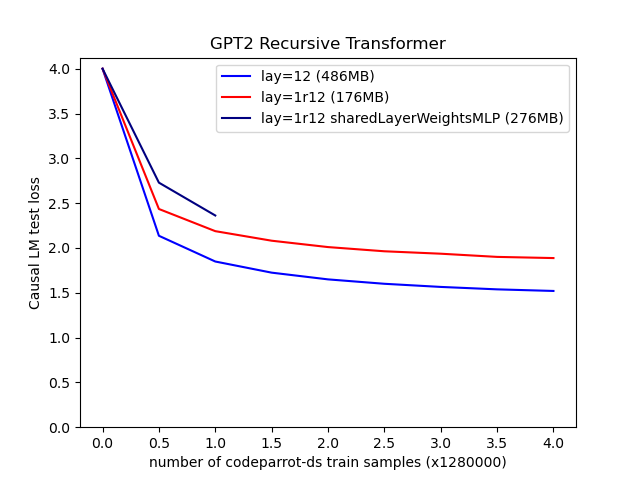
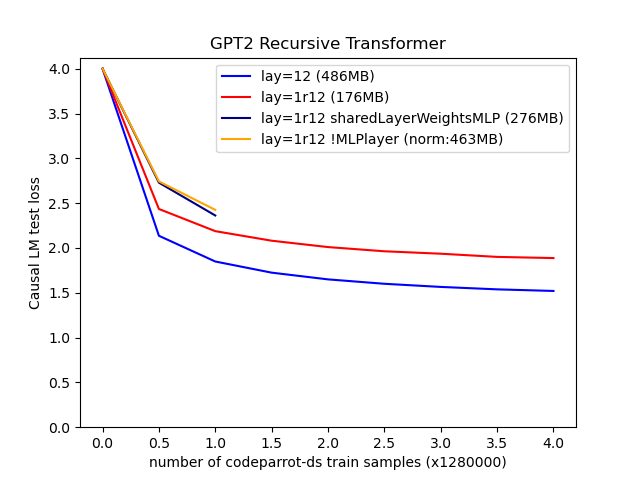
SBNLP/ROBERTAptRecursive/GPT2ptRecursive: add normalisation parameters option for !transformerBlockMLPlayer+recursiveLayersNormaliseNumParameters

diff --git a/graph/recursiveLayers/trainingResults/positionEmbeddingTypeAbsolute/GPT2CausalRecursiveTransformer-transformerBlockMLPlayer.py b/graph/recursiveLayers/trainingResults/positionEmbeddingTypeAbsolute/GPT2CausalRecursiveTransformer-transformerBlockMLPlayer.py
@@ -7,12 +7,14 @@ y3 = np.array([0.0, 0.5370364785194397, 0.5751139521598816, 0.5930986404418945, 
 y6 = np.array([0.0, np.nan, np.nan, np.nan, np.nan, np.nan, np.nan, np.nan, np.nan])
 y7 = np.array([0.0, np.nan, np.nan, np.nan, np.nan, np.nan, np.nan, np.nan, np.nan])
 y8 = np.array([0.0, 0.5002896189689636, 0.5535823702812195, np.nan, np.nan, np.nan, np.nan, np.nan, np.nan])
+y13 = np.array([0.0, 0.49833741784095764, 0.5456426739692688, np.nan, np.nan, np.nan, np.nan, np.nan, np.nan])
 
 l2, = plt.plot(x, y2, color='blue', label='lay=12 (486MB)')
 l3, = plt.plot(x, y3, color='red', label='lay=1r12 (176MB)')
 l6, = plt.plot(x, y6, color='orange', label='lay=1r12 !MLPlayer (156MB)')
 l7, = plt.plot(x, y7, color='yellow', label='lay=1r12 MLPlayerLast (176MB)')
 l8, = plt.plot(x, y8, color='navy', label='lay=1r12 sharedLayerWeightsMLP (276MB)')
+l13, = plt.plot(x, y13, color='orange', label='lay=1r12 !MLPlayer (norm:463MB)')
 
 plt.xticks(np.arange(min(x), max(x)+0.5, 0.5))
 plt.yticks(np.arange(0, 0.7+0.1, 0.1))
@@ -21,6 +23,6 @@ plt.xlabel("number of codeparrot-ds train samples (x1280000)")
 plt.ylabel("Causal LM test accuracy (Top-1)")
 plt.title("GPT2 Recursive Transformer")
 
-plt.legend(handles=[l2, l3, l8])
+plt.legend(handles=[l2, l3, l8, l13])
 
 plt.show()

diff --git a/graph/recursiveLayers/trainingResults/positionEmbeddingTypeAbsolute/GPT2CausalRecursiveTransformer-transformerBlockMLPlayer-perplexity.py b/graph/recursiveLayers/trainingResults/positionEmbeddingTypeAbsolute/GPT2CausalRecursiveTransformer-transformerBlockMLPlayer-perplexity.py
@@ -7,12 +7,14 @@ y3 = np.array([25.0, 11.413861274719238, 8.91283893585205, 8.011733055114746, 7.
 y6 = np.array([25.0, np.nan, np.nan, np.nan, np.nan, np.nan, np.nan, np.nan, np.nan])
 y7 = np.array([25.0, np.nan, np.nan, np.nan, np.nan, np.nan, np.nan, np.nan, np.nan])
 y8 = np.array([25.0, 15.31370735168457, 10.615104675292969, np.nan, np.nan, np.nan, np.nan, np.nan, np.nan])
+y13 = np.array([25.0, 15.526958465576172, 11.304801940917969, np.nan, np.nan, np.nan, np.nan, np.nan, np.nan])
 
 l2, = plt.plot(x, y2, color='blue', label='lay=12 (486MB)')
 l3, = plt.plot(x, y3, color='red', label='lay=1r12 (176MB)')
 l6, = plt.plot(x, y6, color='orange', label='lay=1r12 !MLPlayer (156MB)')
 l7, = plt.plot(x, y7, color='yellow', label='lay=1r12 MLPlayerLast (176MB)')
 l8, = plt.plot(x, y8, color='navy', label='lay=1r12 sharedLayerWeightsMLP (276MB)')
+l13, = plt.plot(x, y13, color='orange', label='lay=1r12 !MLPlayer (norm:463MB)')
 
 plt.xticks(np.arange(min(x), max(x)+0.5, 0.5))
 plt.yticks(np.arange(0, 25.0+2.0, 2.0))
@@ -21,6 +23,6 @@ plt.xlabel("number of codeparrot-ds train samples (x1280000)")
 plt.ylabel("Causal LM test perplexity")
 plt.title("GPT2 Recursive Transformer")
 
-plt.legend(handles=[l2, l3, l8])
+plt.legend(handles=[l2, l3, l8, l13])
 
 plt.show()

diff --git a/graph/recursiveLayers/trainingResults/positionEmbeddingTypeAbsolute/GPT2CausalRecursiveTransformer-transformerBlockMLPlayer-loss.py b/graph/recursiveLayers/trainingResults/positionEmbeddingTypeAbsolute/GPT2CausalRecursiveTransformer-transformerBlockMLPlayer-loss.py
@@ -7,12 +7,14 @@ y3 = np.array([4.0, 2.434828519821167, 2.187492847442627, 2.080907106399536, 2.0
 y6 = np.array([4.0, np.nan, np.nan, np.nan, np.nan, np.nan, np.nan, np.nan, np.nan])
 y7 = np.array([4.0, np.nan, np.nan, np.nan, np.nan, np.nan, np.nan, np.nan, np.nan])
 y8 = np.array([4.0, 2.728748321533203, 2.3622779846191406, np.nan, np.nan, np.nan, np.nan, np.nan, np.nan])
+y13 = np.array([4.0, 2.7425777912139893, 2.425227642059326, np.nan, np.nan, np.nan, np.nan, np.nan, np.nan])
 
 l2, = plt.plot(x, y2, color='blue', label='lay=12 (486MB)')
 l3, = plt.plot(x, y3, color='red', label='lay=1r12 (176MB)')
 l6, = plt.plot(x, y6, color='orange', label='lay=1r12 !MLPlayer (156MB)')
 l7, = plt.plot(x, y7, color='yellow', label='lay=1r12 MLPlayerLast (176MB)')
 l8, = plt.plot(x, y8, color='navy', label='lay=1r12 sharedLayerWeightsMLP (276MB)')
+l13, = plt.plot(x, y13, color='orange', label='lay=1r12 !MLPlayer (norm:463MB)')
 
 plt.xticks(np.arange(min(x), max(x)+0.5, 0.5))
 plt.yticks(np.arange(0, 4.0+0.1, 0.5))
@@ -21,6 +23,6 @@ plt.xlabel("number of codeparrot-ds train samples (x1280000)")
 plt.ylabel("Causal LM test loss")
 plt.title("GPT2 Recursive Transformer")
 
-plt.legend(handles=[l2, l3, l8])
+plt.legend(handles=[l2, l3, l8, l13])
 
 plt.show()

diff --git a/ROBERTAptRecursive/ROBERTApt-main.py b/ROBERTAptRecursive/ROBERTApt-main.py
@@ -64,6 +64,7 @@ if(recursiveLayers):
 	from modeling_roberta_recursiveLayers import sharedLayerWeightsMLPonly
 	from modeling_roberta_recursiveLayers import sharedLayerWeightsWithOutputs
 	from modeling_roberta_recursiveLayers import sharedLayerWeightsWithoutOutputs
+	from modeling_roberta_recursiveLayers import transformerBlockMLPlayer
 	recursiveLayersNormaliseNumParameters = False	#optional	#if use recursiveLayers normalise/equalise num of parameters with respect to !recursiveLayers
 	if(recursiveLayersNormaliseNumParameters):
 		recursiveLayersNormaliseNumParametersAttentionHeads = True	#default: true
@@ -95,7 +96,9 @@ if(not usePretrainedModelDebug):
 	if(recursiveLayers):
 		#same model size irrespective of useSingleHiddenLayerDebug
 		if(recursiveLayersNormaliseNumParameters):
-			if(recursiveLayersNormaliseNumParametersIntermediateOnly):
+			if(not transformerBlockMLPlayer):
+				hiddenLayerSizeMultiplier = 2.2	#model size = 255MB
+			elif(recursiveLayersNormaliseNumParametersIntermediateOnly):
 				if(sharedLayerWeightsMLPonly):
 					hiddenLayerSizeMultiplier = 1
 					intermediateLayerSizeMultiplier = 6	#model size = 257MB	#hiddenLayerSize 768, intermediateSize 18432

diff --git a/GPT2ptRecursive/GPT2pt.py b/GPT2ptRecursive/GPT2pt.py
@@ -76,10 +76,14 @@ hiddenLayerSizeTransformer = 768
 intermediateSizeTransformer = hiddenLayerSizeTransformer*4	#default GPT2 specification	#3072
 if(recursiveLayers):
 	from modeling_gpt2 import sharedLayerWeightsMLPonly
+	from modeling_gpt2 import transformerBlockMLPlayer
 	recursiveLayersNormaliseNumParameters = False	#optional
 	if(recursiveLayersNormaliseNumParameters):
 		recursiveLayersNormaliseNumParametersIntermediateOnly = False	#optional	#only normalise intermediary MLP layer
-		if(recursiveLayersNormaliseNumParametersIntermediateOnly):
+		if(not transformerBlockMLPlayer):
+			numberOfAttentionHeads = 32
+			hiddenLayerSizeTransformer = 2048	#model size = 463MB
+		elif(recursiveLayersNormaliseNumParametersIntermediateOnly):
 			#requires high GPU memory ~24GB (although parameter size is equivalent, memory size is much higher for the purposes of storing gradient calculation data in every layer) 	#trial only; batchSize = 4	 
 			if(sharedLayerWeightsMLPonly):
 				intermediateLayerSizeMultiplier = 12	#model size = 477MB	#hiddenLayerSize 768, intermediateSize 36864

diff --git a/graph/recursiveLayers/trainingResults/positionEmbeddingTypeRelative/RobertaCausalRecursiveTransformer-transformerBlockMLPlayer.py b/graph/recursiveLayers/trainingResults/positionEmbeddingTypeRelative/RobertaCausalRecursiveTransformer-transformerBlockMLPlayer.py
@@ -1,0 +1,24 @@
+import matplotlib.pyplot as plt
+import numpy as np
+
+x = np.array([0, 1, 2, 3, 4])
+y2 = np.array([0, 0.31380176396012305, np.nan, np.nan, np.nan])
+y3 = np.array([0, 0.30387136477828025, np.nan, np.nan, np.nan])
+y6 = np.array([0, 0.310142416574955, np.nan, np.nan, np.nan])
+y13 = np.array([0, 0.275956364222765, np.nan, np.nan, np.nan])
+
+l2, = plt.plot(x, y2, color='blue', label='lay=6, hid=768, head=12 (256MB) [w/wo warmup]')
+l3, = plt.plot(x, y3, color='red', label='lay=1r6, hid=768, head=12 (120MB)')
+#l6, = plt.plot(x, y6, color='blue', label='lay=6, hid=768, head=12 (256MB) [w/warmup]', linestyle='dashed')
+l13, = plt.plot(x, y13, color='orange', label='lay=1r6, hid=1690, head=26; !MLPlayer (norm:255MB)')
+
+plt.xticks(np.arange(min(x), max(x)+1, 1.0))
+plt.yticks(np.arange(0, 0.5+0.1, 0.1))
+
+plt.xlabel("number of oscar en train samples (x1000000)")
+plt.ylabel("Causal LM test accuracy (Top-1)")
+plt.title("RoBERTa Recursive Transformer")
+
+plt.legend(handles=[l2, l3, l13])
+
+plt.show()

diff --git a/graph/recursiveLayers/trainingResults/positionEmbeddingTypeRelative/RobertaCausalRecursiveTransformer-loss-transformerBlockMLPlayer.py b/graph/recursiveLayers/trainingResults/positionEmbeddingTypeRelative/RobertaCausalRecursiveTransformer-loss-transformerBlockMLPlayer.py
@@ -1,0 +1,24 @@
+import matplotlib.pyplot as plt
+import numpy as np
+
+x = np.array([0, 1, 2, 3, 4])
+y2 = np.array([6.0, 2.521359804382324, np.nan, np.nan, np.nan])
+y3 = np.array([6.0, 2.5844951899254323, np.nan, np.nan, np.nan])
+y6 = np.array([6.0, 4.073932212734222, np.nan, np.nan, np.nan])
+y13 = np.array([6.0, 4.489333348503113, np.nan, np.nan, np.nan])
+
+l2, = plt.plot(x, y2, color='blue', label='lay=6, hid=768, head=12 (256MB) [w/wo warmup]')
+l3, = plt.plot(x, y3, color='red', label='lay=1r6, hid=768, head=12 (120MB)')
+l6, = plt.plot(x, y6, color='blue', label='lay=6, hid=768, head=12 (256MB) [w warmup]')	#, linestyle='dashed'
+l13, = plt.plot(x, y13, color='orange', label='lay=1r6, hid=1690, head=26; !MLPlayer (norm:255MB)')
+
+plt.xticks(np.arange(min(x), max(x)+0.5, 0.5))
+plt.yticks(np.arange(0, 6.0+0.1, 0.5))
+
+plt.xlabel("number of oscar en train samples (x1000000)")
+plt.ylabel("Causal LM test loss")
+plt.title("RoBERTa Recursive Transformer")
+
+plt.legend(handles=[l2, l3, l13])
+
+plt.show()

diff --git a/SBNLPpt/SBNLPpt_globalDefs.py b/SBNLPpt/SBNLPpt_globalDefs.py
@@ -588,7 +588,9 @@ if(useAlgorithmTransformer):
 		if(recursiveLayers):
 			#same model size irrespective of useSingleHiddenLayerDebug
 			if(recursiveLayersNormaliseNumParameters):
-				if(recursiveLayersNormaliseNumParametersIntermediateOnly):
+				if(not transformerBlockMLPlayer):
+					hiddenLayerSizeMultiplier = 2.2	#model size = 255MB
+				elif(recursiveLayersNormaliseNumParametersIntermediateOnly):
 					if(sharedLayerWeightsMLPonly):
 						hiddenLayerSizeMultiplier = 1
 						intermediateLayerSizeMultiplier = 6	#model size = 257MB	#hiddenLayerSize 768, intermediateSize 18432
